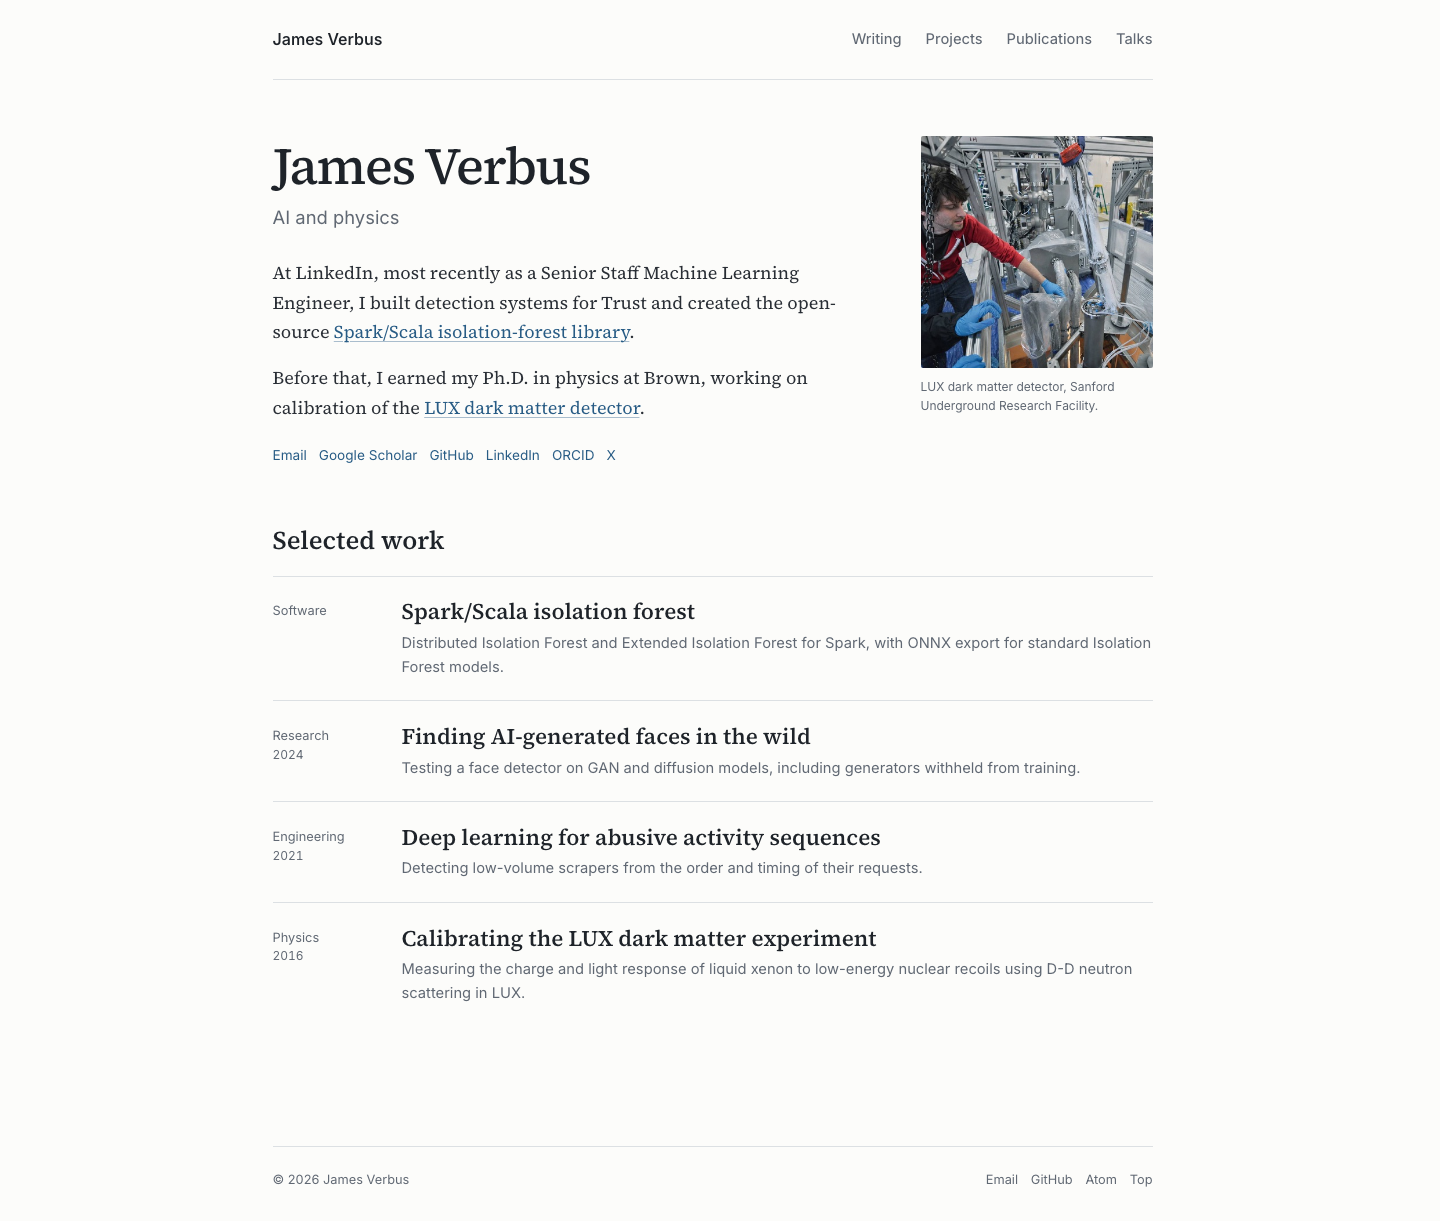
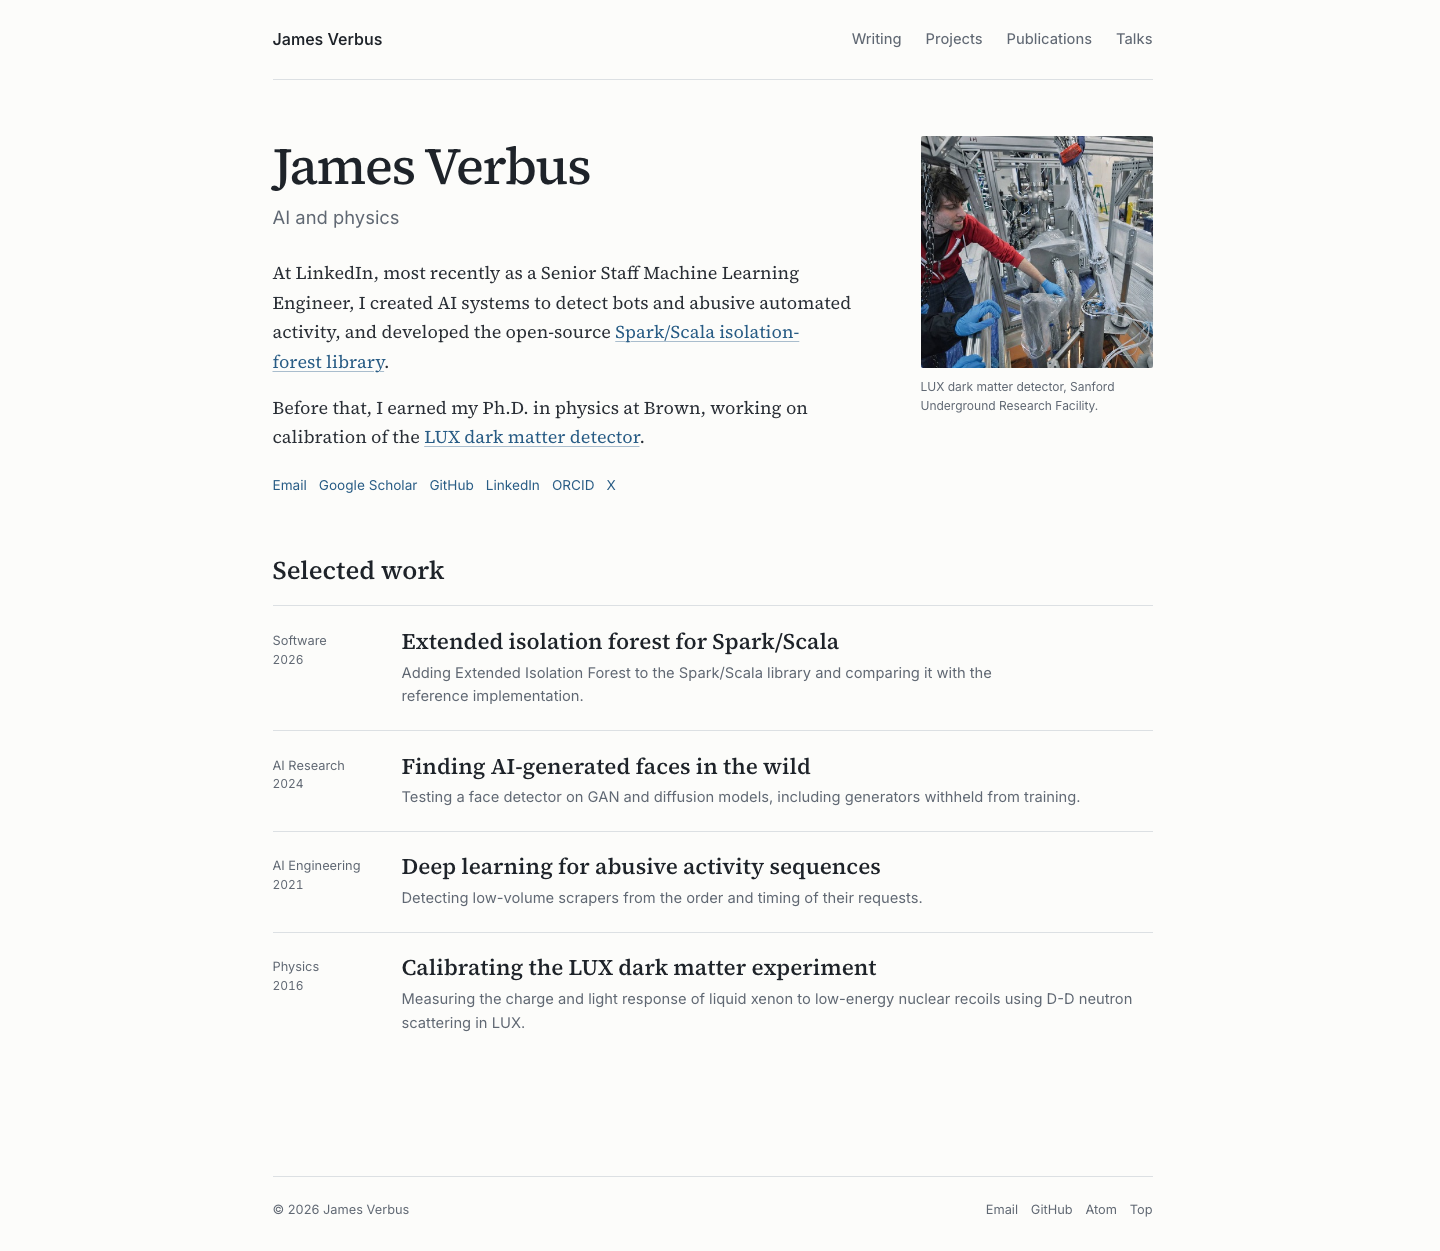
Emphasize abuse detection and feature the 2026 EIF article

diff --git a/scripts/design-review/academic-2026-09-07/README.md b/scripts/design-review/academic-2026-09-07/README.md
@@ -9,9 +9,9 @@ uses near-white, charcoal and blue, with a graphite dark mode.
 
 | Area | Result |
 | --- | --- |
-| Identity | Name as the main heading, with “AI and physics” directly below it. Biography uses the existing LinkedIn and Brown/LUX background. |
+| Identity | Name as the main heading, with “AI and physics” directly below it. Biography emphasizes AI for detecting bots and abusive automated activity, followed by the open-source library and Brown/LUX background. |
 | Homepage | Replaces the slogan, metric strip, route cards, repeated collection previews and contact button with an introduction and four work entries. Existing home fragment targets remain available. |
-| Selected work | `_data/home.yml` lists isolation forest, generated-face detection, activity-sequence detection and LUX calibration. Descriptions reuse existing technical copy. |
+| Selected work | `_data/home.yml` lists the 2026 Extended Isolation Forest article, generated-face detection (AI Research, 2024), activity-sequence detection (AI Engineering, 2021) and LUX calibration (Physics, 2016). All entries have a year. Descriptions reuse existing technical copy. |
 | Navigation | Writing, Projects, Publications and Talks are text links. All four remain visible on mobile without JavaScript. `/videos/` remains the Talks URL. |
 | Typography | Existing vendored Source Serif 4 and Inter, with aligned headings, comfortable reading text and subdued metadata. No new fonts or dependencies. |
 | Collections and posts | Open lists replace raised cards. Article headers, links, contact controls and footers use the quieter presentation. Tables, figures, MathML, code and demos retain their substance and functionality. |
@@ -22,6 +22,11 @@ The original CSS rules remain intact in the same stylesheet; this intentional ad
 approach preserves Castle's appearance. Other pages use `loop55`. Homepage structured
 data uses the new home description. The old configuration tagline remains available for
 Castle's original footer.
+
+The selected software entry points to the 2026 EIF article to show recent development.
+That article links to the original 2019 work; the biography still links directly to the
+library's project page. Its displayed 2026 date belongs to the featured article, not to
+the library's creation.
 
 This design implements the later approved homepage/footer changes. The prior editorial
 review's other optional holds remain unchanged: publication counts, interview copy, and

diff --git a/index.md b/index.md
@@ -1,7 +1,7 @@
 ---
 layout: page
 title: Home
-description: "James Verbus: AI and physics. Work on machine learning, anomaly detection, and the LUX dark matter experiment."
+description: "James Verbus: AI and physics. Work on AI for abuse detection, anomaly detection, and the LUX dark matter experiment."
 last_modified_at: 2026-09-07
 hide_title: true
 ---
@@ -11,7 +11,7 @@ hide_title: true
     <h1 id="profile-name">James Verbus</h1>
     <p class="profile-field">AI and physics</p>
     <div class="profile-bio" id="throughline-heading">
-      <p>At LinkedIn, most recently as a Senior Staff Machine Learning Engineer, I built detection systems for Trust and created the open-source <a href="{{ '/open-source/isolation-forest/' | relative_url }}">Spark/Scala isolation-forest library</a>.</p>
+      <p>At LinkedIn, most recently as a Senior Staff Machine Learning Engineer, I created AI systems to detect bots and abusive automated activity, and developed the open-source <a href="{{ '/open-source/isolation-forest/' | relative_url }}">Spark/Scala isolation-forest library</a>.</p>
       <p>Before that, I earned my Ph.D. in physics at Brown, working on calibration of the <a href="{{ '/2016/08/18/calibrating-the-lux-dark-matter-experiment/' | relative_url }}">LUX dark matter detector</a>.</p>
     </div>
     <nav class="profile-links" id="contact" aria-label="Contact and profiles">
